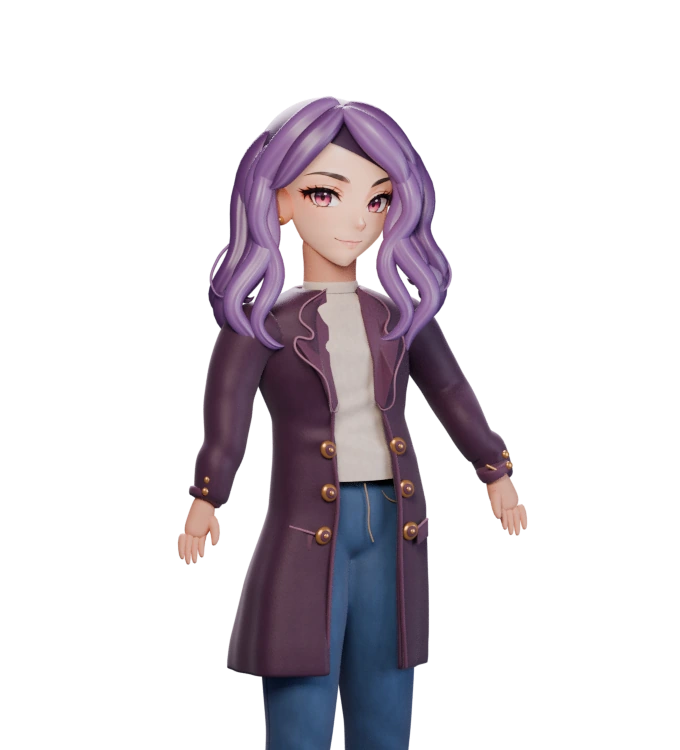
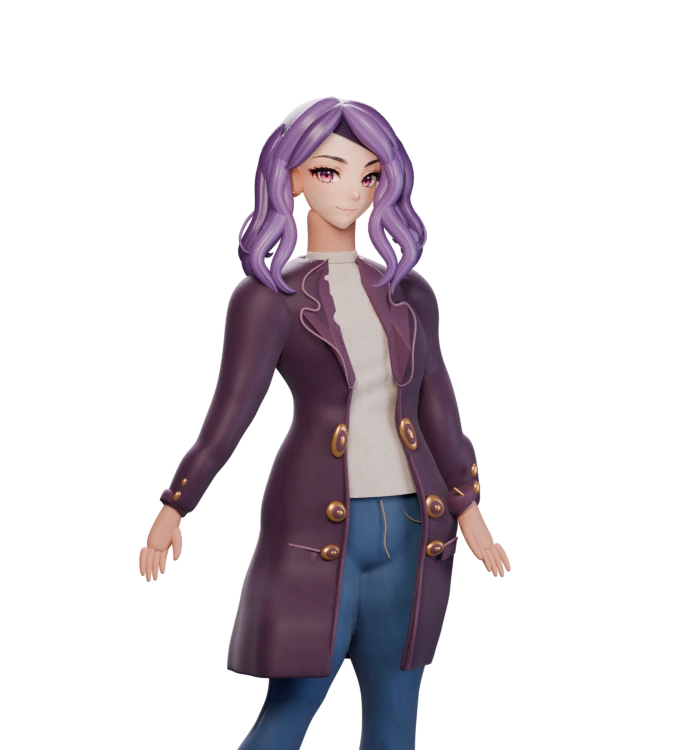
Match wardrobe proportions and stance to the reference artwork

Changed region(s): [[0.1853, 0.1227, 0.7721, 1.0]]

diff --git a/docs/avatar-3d.html b/docs/avatar-3d.html
@@ -7,7 +7,7 @@
 <meta name="description" content="같은 코디의 2D 원화와 3D 모델 렌더를 비교해 보세요.">
 <title>캐릭터 제작 시안 · 알찬끼</title>
 <link rel="stylesheet" href="./avatar-3d.css">
-<script type="module" src="./avatar-3d.mjs?v=3"></script>
+<script type="module" src="./avatar-3d.mjs?v=4"></script>
 </head>
 <body>
 <main>

diff --git a/scripts/avatar-studio/render.py b/scripts/avatar-studio/render.py
@@ -1,5 +1,6 @@
 """Build the pose and render the Alchankki wardrobe study with Blender 4.3."""
 import argparse
+from bisect import bisect_right
 from math import asin, cos, exp, pi, sin
 from pathlib import Path
 import sys
@@ -8,11 +9,21 @@ import bpy
 from mathutils import Vector
 
 
+OUTFITS = {
+    "hoodie": ("hoodie","hair","boots"),
+    "hoodie-beret": ("hoodie","seat","hat","boots"),
+    "coat": ("coat","hair","boots"),
+    "coat-beret": ("coat","seat","hat","boots"),
+    "sneakers": ("hoodie","hair","sneakers"),
+}
+
+
 def command_line():
     parser = argparse.ArgumentParser(description=__doc__)
     parser.add_argument("--output", type=Path, required=True)
     parser.add_argument("--blend", type=Path)
     parser.add_argument("--draft", action="store_true")
+    parser.add_argument("--outfit", choices=OUTFITS, action="append")
     return parser.parse_args(sys.argv[sys.argv.index("--") + 1:])
 
 
@@ -477,6 +488,7 @@ def low_position(side):
 
 
 def trousers(denim, bright, dark, stitches):
+    before = set(bpy.context.scene.objects)
     pieces, turned_hems = [], []
 
     def knee_fold(point, a):
@@ -498,7 +510,8 @@ def trousers(denim, bright, dark, stitches):
         cuff = [(x,y,z+.015+k,rx+.009,ry+.006) for k,(x,y,z,rx,ry) in zip((0,.04),points[:2])]
         turned_hems.append(rings("Turned denim hem for low shoes", cuff, bright, cap=False))
     pieces.append(rings("Denim seat", [(0,.075,2.79,.407,.214),
-        (0,.07,2.99,.440,.241),(0,.07,3.17,.418,.229),(0,.07,3.27,.409,.220)],denim))
+        (0,.07,2.99,.440,.241),(0,.07,3.17,.418,.229),
+        (0,.068,3.27,.405,.218),(0,.058,3.35,.361,.199)],denim))
     # Fuse the overlapping hip and leg pattern pieces into one fabric surface.
     bpy.ops.object.select_all(action="DESELECT")
     for piece in pieces:
@@ -539,11 +552,13 @@ def trousers(denim, bright, dark, stitches):
                .0046,stitches,radii=[.25,1,.94,.37])
     strand("Denim fly topstitch", [(.020,-.163,3.26),(.026,-.180,3.127),
            (.038,-.185,2.993),(.078,-.184,2.907)], .005, stitches)
+    mark_region(before, "leg")
     return turned_hems
 
 
 def hands(skin):
     for side in (-1, 1):
+        before = set(bpy.context.scene.objects)
         x = side*(1.028 if side < 0 else .954)
         y = -.072 if side < 0 else -.19
         z = 3.04 if side < 0 else 3.09
@@ -559,6 +574,7 @@ def hands(skin):
                   (px+side*.027,y-.089,z-.062-length,.005,.007)],skin,1)
         tube("Curved thumb",[(x-side*.045,y-.02,z+.062,.039,.041),(x-side*.075,y-.059,z-.004,.032,.031),
              (x-side*.067,y-.10,z-.083,.024,.021),(x-side*.051,y-.104,z-.109,.009,.010)],skin,1)
+        mark_region(before, "arm", side)
     rings("Neck on shared pose", [(0,.015,4.25,.187,.165),(0,-.007,4.40,.164,.161),
           (0,-.028,4.60,.148,.150),(0,-.039,4.79,.202,.177)],skin)
 
@@ -572,6 +588,7 @@ TORSO = [
 
 def sleeves(fabric, cuff, trim=None):
     for side in (-1,1):
+        before = set(bpy.context.scene.objects)
         x = (1.028 if side < 0 else .954)
         dy = -.072 if side < 0 else -.19
         dz = 3.04 if side < 0 else 3.09
@@ -592,6 +609,8 @@ def sleeves(fabric, cuff, trim=None):
             strand("Cuff saddle stitching", [(side*(x-.141+i*.020),dy-.091,dz+.227-i*.010) for i in range(7)],.009,trim)
             for i in range(2):
                 sphere("Working sleeve button", (side*(x+.011-i*.019),dy-.093,dz+.22+i*.068),(.023,.016,.024),trim)
+
+        mark_region(before, "arm", side)
 
 
 def tailored_fold(point, angle, strength=1):
@@ -694,6 +713,7 @@ def coat(fabric, lapel, inner, gold, thread):
 def footwear(name, leather, outsole, trim, lace):
     boot = name == "boots"
     for side in (-1,1):
+        before = set(bpy.context.scene.objects)
         x, offset = low_position(side)
         offset+=.103
         def raised_arch(y,z):
@@ -778,6 +798,15 @@ def footwear(name, leather, outsole, trim, lace):
                       (x+t*.135,offset-.232,.579),(x+t*.091,offset-.266,.531),
                       (x,offset-.253,.529),(x+t*.097,offset-.315,.486)],.012,lace)
 
+        mark_region(before, "leg", side)
+
+
+def mark_region(before, region, side=None):
+    for obj in set(bpy.context.scene.objects)-before:
+        obj["studio_region"] = region
+        if side is not None:
+            obj["studio_side"] = side
+
 
 def fit_pose():
     """Move the shared figure and all costume variants to the same stance."""
@@ -823,6 +852,154 @@ def fit_pose():
                 x += t*(.045 if side < 0 else .075)
                 y -= t*(.105 if side < 0 else -.085)
             return local @ Vector((x,y,z))
+
+        if obj.type == "MESH":
+            for vertex in obj.data.vertices:
+                vertex.co = moved(vertex.co)
+        else:
+            for spline in obj.data.splines:
+                for point in spline.bezier_points:
+                    point.co = moved(point.co)
+
+
+# Landmarks in the 680 × 1060 orthographic render. The wardrobe artwork
+# was aligned to the baseline render at the (uncovered) crown and soles.
+# The first two values in each row are the old and fitted screen heights.
+# Torso rows also have a centre shift and width factor.
+TORSO_FIT = [
+    (208, 185, 0, .86), (247, 218, 0, .88), (278, 248, 1, .92),
+    (308, 278, 1, .95), (346, 318, 9, 1.035), (376, 351, 15, 1.05),
+    (412, 388, 18, .97), (438, 419, 14, .90), (460, 460, 10, 1.12),
+    (489, 508, 10, 1.27), (527, 545, 10, 1.21), (582, 591, 10, 1.13),
+    (624, 627, 7, 1.07), (690, 691, 0, 1), (770, 770, 0, 1),
+]
+# Arm rows add a horizontal shift from the original 3D silhouette. At
+# the sleeve head the arm follows the torso to keep the shoulder closed.
+ARM_FIT = {
+    -1: [(296, 271, 4), (345, 334, 14), (391, 394, 10),
+         (435, 436, -6), (479, 481, -22), (511, 521, -36), (570, 588, -40)],
+     1: [(296, 269, -8), (346, 319, -21), (396, 389, -22),
+         (437, 443, -29), (479, 509, -33), (526, 568, -16), (554, 593, -14)],
+}
+# Each leg has its own projected centre and knee/calf width. Taper below
+# the knees and move the free ankle outward, as in the illustrated pose.
+LEG_FIT = {
+    -1: [(598, 601, 299, 301, 1.02), (640, 643, 299, 306, .99),
+         (693, 694, 298, 295, .80), (722, 719, 299, 284, .80),
+         (754, 761, 296, 261, .99), (801, 805, 292, 241, .92),
+         (846, 873, 289, 229, .75), (880, 907, 287, 222, .82),
+         (925, 943, 286, 220, .84), (1016, 1016, 286, 221, .88)],
+     1: [(598, 601, 378, 391, 1.04), (640, 645, 378, 392, 1.00),
+         (696, 697, 378, 391, .79), (726, 730, 379, 390, .81),
+         (759, 770, 376, 385, .92), (810, 824, 375, 383, .92),
+         (854, 893, 374, 380, .86), (889, 918, 374, 380, .88),
+         (925, 948, 374, 381, .90), (1016, 1016, 374, 382, .94)],
+}
+
+
+def smooth_range(value, start, end):
+    t = max(0, min(1, (value-start)/(end-start)))
+    return t*t*(3-2*t)
+
+
+def smooth_profile(rows):
+    """Interpolate fitting landmarks without creases at the joined levels."""
+    heights = [row[0] for row in rows]
+    spans = [b-a for a,b in zip(heights, heights[1:])]
+    columns = list(zip(*(row[1:] for row in rows)))
+    tangents = []
+    for values in columns:
+        slopes = [(b-a)/h for a,b,h in zip(values, values[1:], spans)]
+        inner = [0 if a*b <= 0 else 2*a*b/(a+b) for a,b in zip(slopes, slopes[1:])]
+        tangents.append([slopes[0], *inner, slopes[-1]])
+
+    def sample(height):
+        if height <= heights[0]:
+            return rows[0][1:]
+        if height >= heights[-1]:
+            return rows[-1][1:]
+        i = bisect_right(heights, height)-1
+        h = spans[i]
+        t = (height-heights[i])/h
+        blend = t*t*(3-2*t)
+        return tuple(v[i]*(1-blend)+v[i+1]*blend
+                     +h*t*(1-t)*(m[i]*(1-t)-m[i+1]*t)
+                     for v,m in zip(columns, tangents))
+
+    return sample
+
+
+def fit_reference_pose(scene):
+    """Refit the model in the illustration camera, then keep the new 3D mesh."""
+    view = scene.camera.matrix_world.copy()
+    inverse = view.inverted()
+    corners = scene.camera.data.view_frame(scene=scene)
+    left, right = min(p.x for p in corners), max(p.x for p in corners)
+    bottom, top = min(p.y for p in corners), max(p.y for p in corners)
+    px = 680/(right-left)
+    py = 1060/(top-bottom)
+    body = smooth_profile(TORSO_FIT)
+    arms = {side: smooth_profile(rows) for side,rows in ARM_FIT.items()}
+    legs = {side: smooth_profile(rows) for side,rows in LEG_FIT.items()}
+
+    def screen(point):
+        p = inverse @ point
+        return (p.x-left)*px, (top-p.y)*py, p.z
+
+    def refit(point, region, side):
+        x,y,depth = screen(point)
+        if region == "head":
+            # Scale around the crown and bring in the hair and hat together.
+            return view @ Vector((left+(340+(x-340)*.775)/px,
+                                  top-(97+(y-97)*.779)/py, depth))
+        y_fit, shift, width = body(y)
+        x_fit = 340+(x-340)*width+shift
+        if region == "arm":
+            t = smooth_range(y,312,368)
+            arm_y,arm_shift = arms[side](y)
+            x_fit = x_fit*(1-t) + (x+arm_shift)*t
+            y_fit = y_fit*(1-t) + arm_y*t
+        elif region == "leg":
+            t = smooth_range(y,585,639)
+            leg_y,axis,new_axis,scale = legs[side](y)
+            # Pivot each shoe and trouser leg about the same real ankle
+            # before setting the stance. The right toe opens outward.
+            turn = (-.62 if side == -1 else .55)*smooth_range(y,849,937)
+            ankle_x,ankle_y = low_position(side)
+            ankle_x += .045 if side==-1 else .075
+            ankle_y += .015 if side==-1 else .205
+            dx,dy = point.x-ankle_x,point.y-ankle_y
+            turned = Vector((ankle_x+dx*cos(turn)-dy*sin(turn),
+                             ankle_y+dx*sin(turn)+dy*cos(turn),point.z))
+            foot_x,foot_y,foot_depth = screen(turned)
+            x_fit = x_fit*(1-t) + (new_axis+(foot_x-axis)*scale)*t
+            y_fit = y_fit*(1-t) + (leg_y+foot_y-y)*t
+            depth += (foot_depth-depth)*t
+        elif region == "coat":
+            # Give the front of the skirt ease over the bent thigh. The
+            # back cloth still hangs behind the legs in the same 3D view.
+            facing = 1-smooth_range(point.y,.01,.24)
+            depth += .16*facing*smooth_range(y,546,632)
+        return view @ Vector((left+x_fit/px,top-y_fit/py,depth))
+
+    bpy.context.view_layer.update()
+    for obj in scene.objects:
+        if obj.type not in ("MESH","CURVE"):
+            continue
+        world = obj.matrix_world.copy()
+        local = world.inverted()
+        if any(group.name.startswith(("Peach complexion", "Hair |", "Cream beret"))
+               for group in obj.users_collection):
+            region = "head"
+        else:
+            region = obj.get("studio_region","body")
+            if region=="body" and any(group.name=="Night coat" for group in obj.users_collection):
+                region = "coat"
+
+        def moved(co):
+            point = world @ co
+            side = obj.get("studio_side",-1 if point.x < 0 else 1)
+            return local @ refit(point,region,side)
 
         if obj.type == "MESH":
             for vertex in obj.data.vertices:
@@ -897,6 +1074,7 @@ def main():
     scene = prepare_scene(args.draft)
     groups = build()
     fit_pose()
+    fit_reference_pose(scene)
     select(groups, "hoodie", "hair", "boots")
     if args.blend:
         args.blend.parent.mkdir(parents=True, exist_ok=True)
@@ -905,15 +1083,8 @@ def main():
                 if area.type == "VIEW_3D":
                     area.spaces.active.region_3d.view_perspective = "CAMERA"
         bpy.ops.wm.save_as_mainfile(filepath=str(args.blend.resolve()))
-    variants = {
-        "hoodie": ("hoodie","hair","boots"),
-        "hoodie-beret": ("hoodie","seat","hat","boots"),
-        "coat": ("coat","hair","boots"),
-        "coat-beret": ("coat","seat","hat","boots"),
-        "sneakers": ("hoodie","hair","sneakers"),
-    }
-    for name, visible in variants.items():
-        select(groups, *visible)
+    for name in args.outfit or OUTFITS:
+        select(groups, *OUTFITS[name])
         scene.render.filepath = str((args.output/f"{name}.png").resolve())
         bpy.ops.render.render(write_still=True)
 

diff --git a/scripts/avatar-studio/README.md b/scripts/avatar-studio/README.md
@@ -1,6 +1,6 @@
 # 3D 캐릭터 제작 시안
 
-Blender 4.3과 Pillow로 원화를 다시 만들 수 있다. `--blend`를 지정하면 코디별 컬렉션이 있는 편집용 장면도 저장한다. `--draft`는 카메라와 소재를 빠르게 검토하는 저해상도 출력이다.
+Blender 4.3과 Pillow로 원화를 다시 만들 수 있다. `--blend`를 지정하면 코디별 컬렉션이 있는 편집용 장면도 저장한다. `--draft`는 카메라와 소재를 빠르게 검토하는 저해상도 출력이다. 일부 착장만 다시 그릴 때는 `--outfit coat --outfit coat-beret`처럼 지정한다.
 
 ```bash
 blender -b --python-exit-code 1 --python scripts/avatar-studio/render.py -- --output /tmp/alchankki-renders --blend /tmp/alchankki.blend
@@ -12,3 +12,5 @@ python scripts/avatar-studio/pack.py /tmp/alchankki-renders docs/assets/avatar-s
 새 상의와 하의를 추가할 때는 렌더의 카메라·자세를 유지하고, 잘라내는 줄까지 옷이 내려오거나 다리 윤곽이 바뀌는지 먼저 본다. 이번 시안은 고정 데님에 맞춰 구간을 나눴다. 치마나 긴 코트로 확대할 때는 옷의 깊이와 가림이 바뀌는 부위의 레이어를 별도로 설계해야 한다.
 
 얼굴은 원화의 3/4 윤곽을 따라 턱·광대·눈두덩·콧등의 깊이를 모델링했다. 기존 `faces.png`의 표정을 얼굴 표면에 UV로 맞추고 관자놀이와 뒷면에서 피부색에 섞는다. 편집용 Blender 파일에는 이 텍스처가 포함된다. 머리 가닥별로 폭과 두께, 색의 하이라이트를 정의하며 베레모 아래 앞머리는 눌린 형태를 사용한다. 소매 굴곡, 코트 자락, 데님 무릎, 베레모 리본과 부츠 굽은 실제 모델에 들어 있다.
+
+맨머리의 정수리와 신발 밑바닥을 기준으로 원화의 키를 680×1060 렌더에 맞췄다. `fit_reference_pose`는 이 화면에서 잰 어깨·허리·골반과 팔다리의 위치를 3D 메시의 좌표에 적용한다. 머리·모발·모자는 함께 크기를 맞춘다. 팔은 손과 소매가 같은 변환을 따르고, 발은 좌우 발목을 중심으로 바짓단과 신발이 함께 회전한다. 비교 페이지의 전신과 확대 보기는 같은 배율을 쓴다. 브라우저 검사는 모자 없는 후디 착장에서 머리 주변의 폭, 골반 너비, 양쪽 발목 위치가 원화 기준에서 벗어나는 경우를 잡는다.
